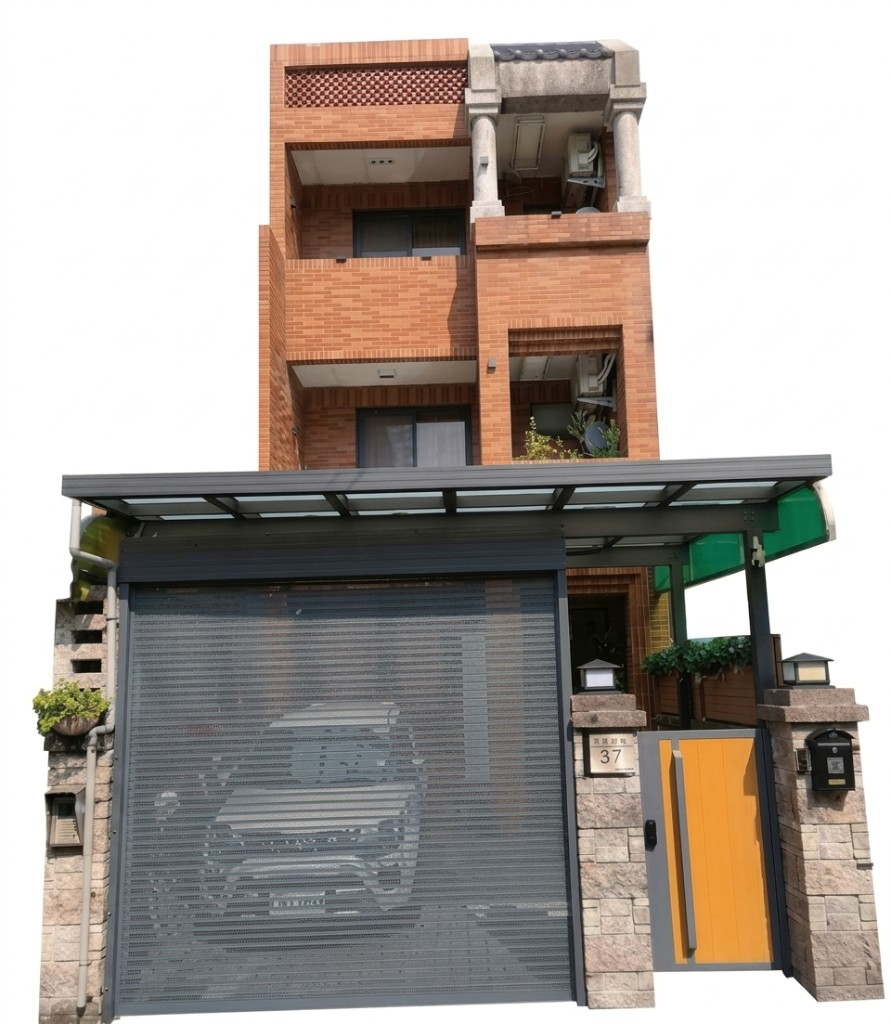
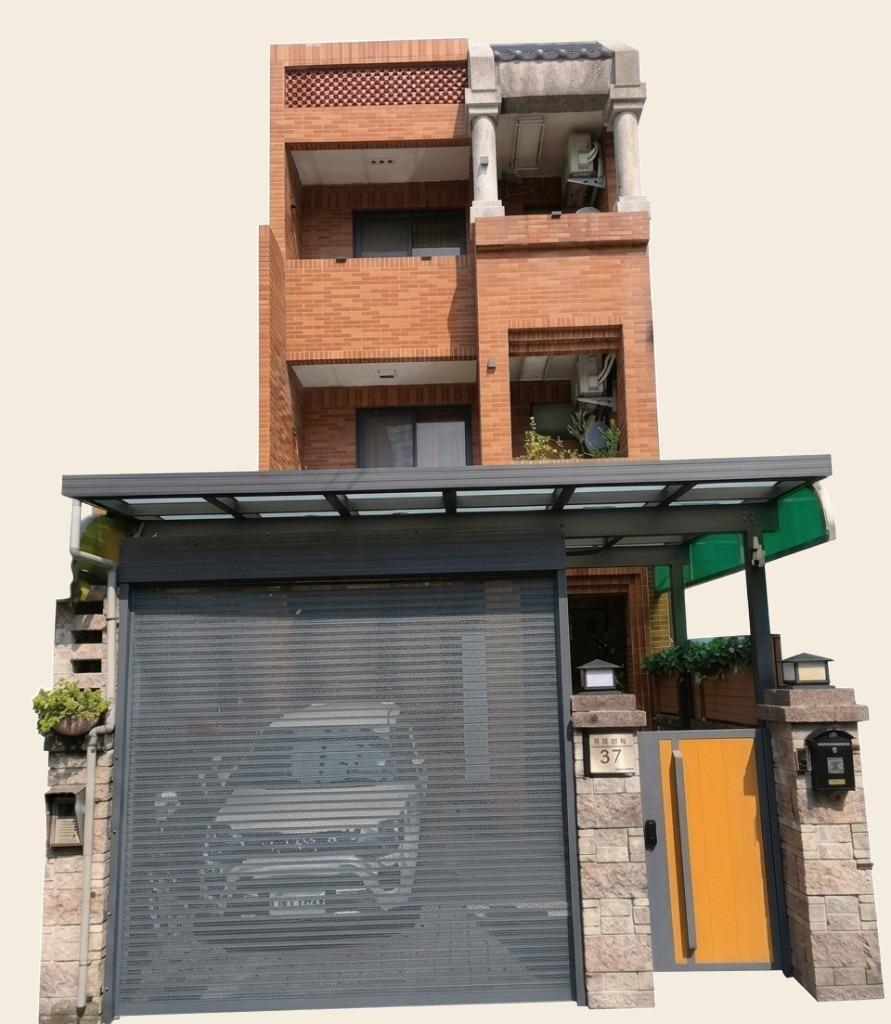
房子照片白底改成與頁面相同米色，版次 22。

diff --git a/index.html b/index.html
@@ -13,14 +13,14 @@
   <link rel="preconnect" href="https://fonts.googleapis.com">
   <link rel="preconnect" href="https://fonts.gstatic.com" crossorigin>
   <link href="https://fonts.googleapis.com/css2?family=Noto+Sans+TC:wght@400;500;700&display=swap" rel="stylesheet">
-  <link rel="stylesheet" href="app.css?v=21">
+  <link rel="stylesheet" href="app.css?v=22">
 </head>
 <body>
   <section id="gate" class="gate">
     <div id="login-pane">
       <img class="mark" src="icon.svg" alt="">
       <h1>三生有杏</h1>
-      <img class="home-photo" src="home.jpg?v=21" alt="我家">
+      <img class="home-photo" src="home.jpg?v=22" alt="我家">
       <p class="lede">拍下帳單、稅單、發票或收據，自己點分類後存進雲端硬碟。</p>
       <p class="account-note">請用 <strong id="prefer"></strong> 登入。照片與 PDF 都寫入 jason660803@gmail.com 的雲端硬碟，不會進 GitHub。</p>
       <button id="login" class="primary" type="button">用 Google 登入</button>
@@ -197,9 +197,9 @@
   <input id="pdf" class="file" type="file" accept="application/pdf,.pdf" multiple>
 
   <script src="https://accounts.google.com/gsi/client" async defer></script>
-  <script src="google_config.js?v=21" defer></script>
-  <script src="classify.js?v=21" defer></script>
-  <script src="drive.js?v=21" defer></script>
-  <script src="app.js?v=21" defer></script>
+  <script src="google_config.js?v=22" defer></script>
+  <script src="classify.js?v=22" defer></script>
+  <script src="drive.js?v=22" defer></script>
+  <script src="app.js?v=22" defer></script>
 </body>
 </html>

diff --git a/app.js b/app.js
@@ -1,7 +1,7 @@
 (function () {
   const $ = function (id) { return document.getElementById(id); };
   // 版次顯示：版次{流水號} (日期)。每次改網頁把 PAGE_BUILD +1，並把 index.html 的 ?v= 改成同一個數字。
-  const PAGE_BUILD = 21;
+  const PAGE_BUILD = 22;
   const PAGE_DATE = "2026-11-13";
 
   const state = {

diff --git a/app.css b/app.css
@@ -105,8 +105,8 @@ button:active { transform: translateY(1px); }
   object-fit: contain;
   object-position: center top;
   border-radius: 18px;
-  background: #fff;
-  border: 1px solid var(--line);
+  background: var(--bg);
+  border: 0;
 }
 
 .story {
